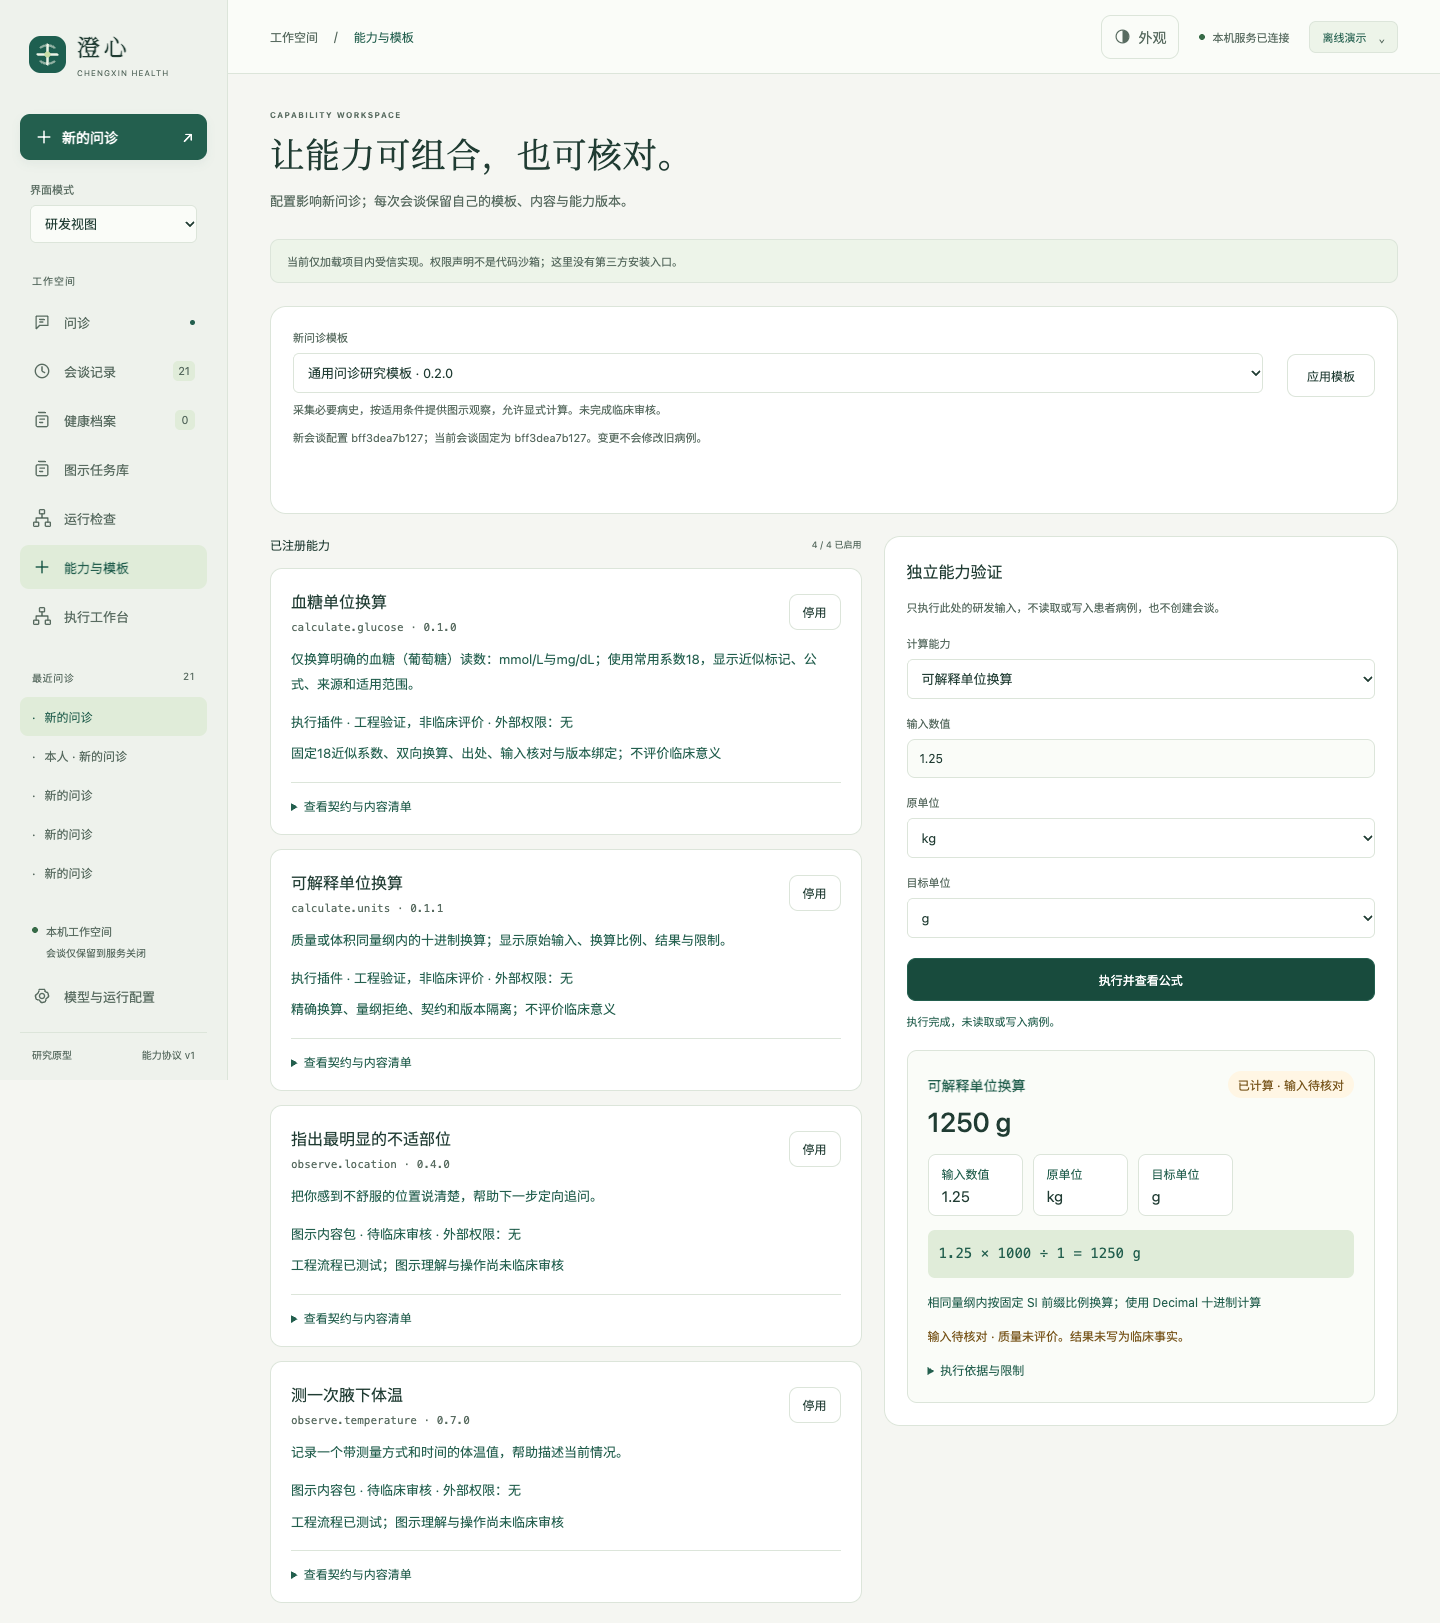
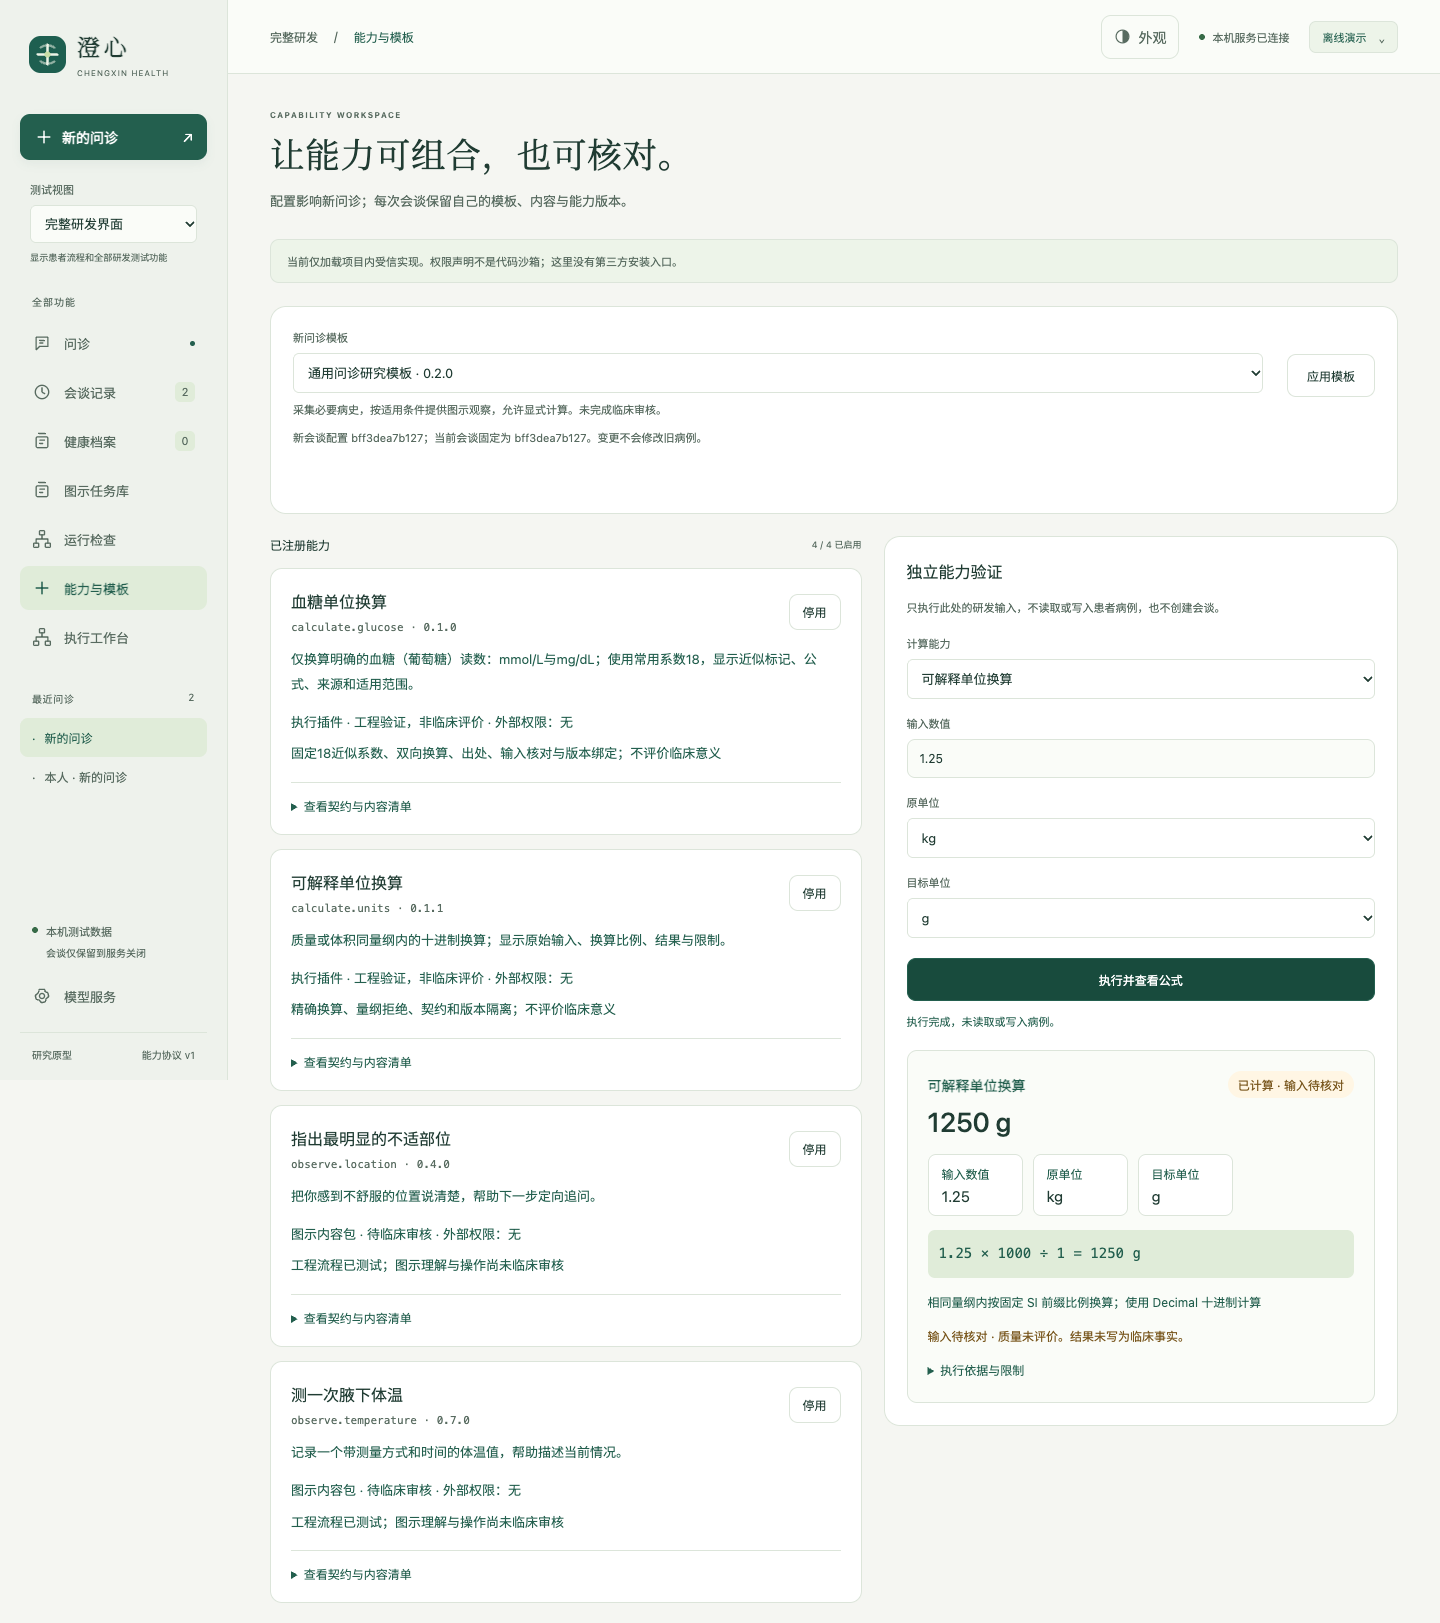
Clarify patient and development views

Changed region(s): [[0.0, 0.1232, 0.0938, 0.5545], [0.1875, 0.0, 0.2188, 0.0308], [0.0625, 0.5853, 0.0938, 0.6161]]

diff --git a/src/medagent/web/index.html b/src/medagent/web/index.html
@@ -106,13 +106,14 @@
           <svg class="icon"><use href="#i-plus" /></svg> 新的问诊 <span>↗</span>
         </button>
         <label class="workspace-mode" for="workspace-mode"
-          >界面模式
-          <select id="workspace-mode" disabled>
-            <option value="patient">患者视图</option>
-            <option value="developer">研发视图</option>
+          >测试视图
+          <select id="workspace-mode" aria-label="界面模式" disabled>
+            <option value="patient">患者界面</option>
+            <option value="developer">完整研发界面</option>
           </select>
+          <small id="workspace-mode-description">只显示患者使用的功能</small>
         </label>
-        <p class="nav-label">工作空间</p>
+        <p id="nav-section-label" class="nav-label">患者功能</p>
         <nav class="nav-list">
           <button
             class="nav-item active"
@@ -176,7 +177,8 @@
           <div class="local-note">
             <span class="status-dot"></span
             ><span
-              >本机工作空间<small id="workspace-storage-note"
+              ><span id="local-data-label">本机数据</span
+              ><small id="workspace-storage-note"
                 >会谈仅保留到服务关闭</small
               ></span
             >
@@ -205,8 +207,8 @@
               aria-label="打开导航"
             >
               <svg class="icon"><use href="#i-menu" /></svg></button
-            ><span>工作空间</span><span class="slash">/</span
-            ><strong id="page-title">问诊</strong>
+            ><span id="breadcrumb-root">患者服务</span
+            ><span class="slash">/</span><strong id="page-title">问诊</strong>
           </div>
           <div class="top-actions">
             <button

diff --git a/src/medagent/web/app.js b/src/medagent/web/app.js
@@ -428,6 +428,13 @@ function setWorkspaceMode(mode) {
   state.workspaceMode = mode === "developer" ? "developer" : "patient";
   document.body.dataset.mode = state.workspaceMode;
   $("#workspace-mode").value = state.workspaceMode;
+  const developer = state.workspaceMode === "developer";
+  $("#workspace-mode-description").textContent = developer
+    ? "显示患者流程和全部研发测试功能"
+    : "只显示患者使用的功能";
+  $("#nav-section-label").textContent = developer ? "全部功能" : "患者功能";
+  $("#local-data-label").textContent = developer ? "本机测试数据" : "本机数据";
+  $("#breadcrumb-root").textContent = developer ? "完整研发" : "患者服务";
   navigate(state.view);
 }
 

diff --git a/src/medagent/web/styles.css b/src/medagent/web/styles.css
@@ -1016,6 +1016,10 @@ body[data-mode="developer"] .patient-only {
   color: var(--ink);
   background: var(--raised);
 }
+.workspace-mode small {
+  line-height: 1.45;
+  color: var(--muted);
+}
 .current-activity {
   padding: 15px 20px 22px;
 }

diff --git a/README.md b/README.md
@@ -190,7 +190,7 @@ PYTHONPATH=src python3 -m medagent.server --backend demo --port 18765
 
 访问 `http://127.0.0.1:18765`。`demo` 是固定规则演示，不调用模型。
 
-默认患者视图提供**问诊、会谈记录、健康档案**；左侧切换到研发视图后，增加**图示任务库、运行检查、能力与模板、模型配置**。已有会谈继续使用创建时的后端与能力版本。问诊会谈、连接和组合配置只保存在当前服务进程，重启后丢失；健康档案使用独立的本机持久化存储。
+默认患者界面只呈现**问诊、会谈记录、健康档案**及必要的模型服务设置；完整研发界面在保留全部患者板块的同时，增加**图示任务库、运行检查、能力与模板、执行工作台**。两种界面共用同一会谈、健康档案、模型配置和后台 DSH 状态，切换只改变可见入口。已有会谈继续使用创建时的后端与能力版本。问诊会谈、连接和组合配置只保存在当前服务进程，重启后丢失；健康档案使用独立的本机持久化存储。
 
 在“能力与模板”中可切换研究模板、启停图示内容包，选择“单位换算”可独立执行 `1.25 kg → 1250 g`，检查实际公式与结果。换算不写入临床事实。见 [能力插件、模板与扩展协议](docs/能力插件与问诊模板.md)。
 

diff --git a/docs/能力插件与问诊模板.md b/docs/能力插件与问诊模板.md
@@ -8,7 +8,9 @@ v0.7 已通过 103 项 Python 测试（含真实 DSH 进程链路和失败轨迹
 
 ## 使用与评审
 
-应用默认进入患者视图，只显示问诊与会谈记录。左侧“界面模式”切到研发视图后，可以打开“能力与模板”、图示库、运行检查及模型配置。视图切换保留当前会谈，只是展示偏好，不构成身份认证。
+应用默认进入患者界面，只显示问诊、会谈记录、健康档案及必要的模型服务设置。左侧“测试视图”切到完整研发界面后，在保留这些患者板块的同时显示“能力与模板”、图示库、运行检查和执行工作台。两种界面共用同一会谈、健康档案、模型配置与后台 DSH 状态；切换只改变可见入口，不重新创建状态，也不构成身份认证。
+
+患者问诊可以读取患者主动附加的已确认健康档案，图示任务、注册能力和后台复核通过受控接口参与同一流程。通用执行工作台不会自动读取患者数据库；研发测试需要患者样本时应使用合成数据或显式导出的脱敏材料，避免把通用文件执行权限扩展到健康档案。
 
 ![能力与模板管理](assets/ui/08-capabilities.png)
 
